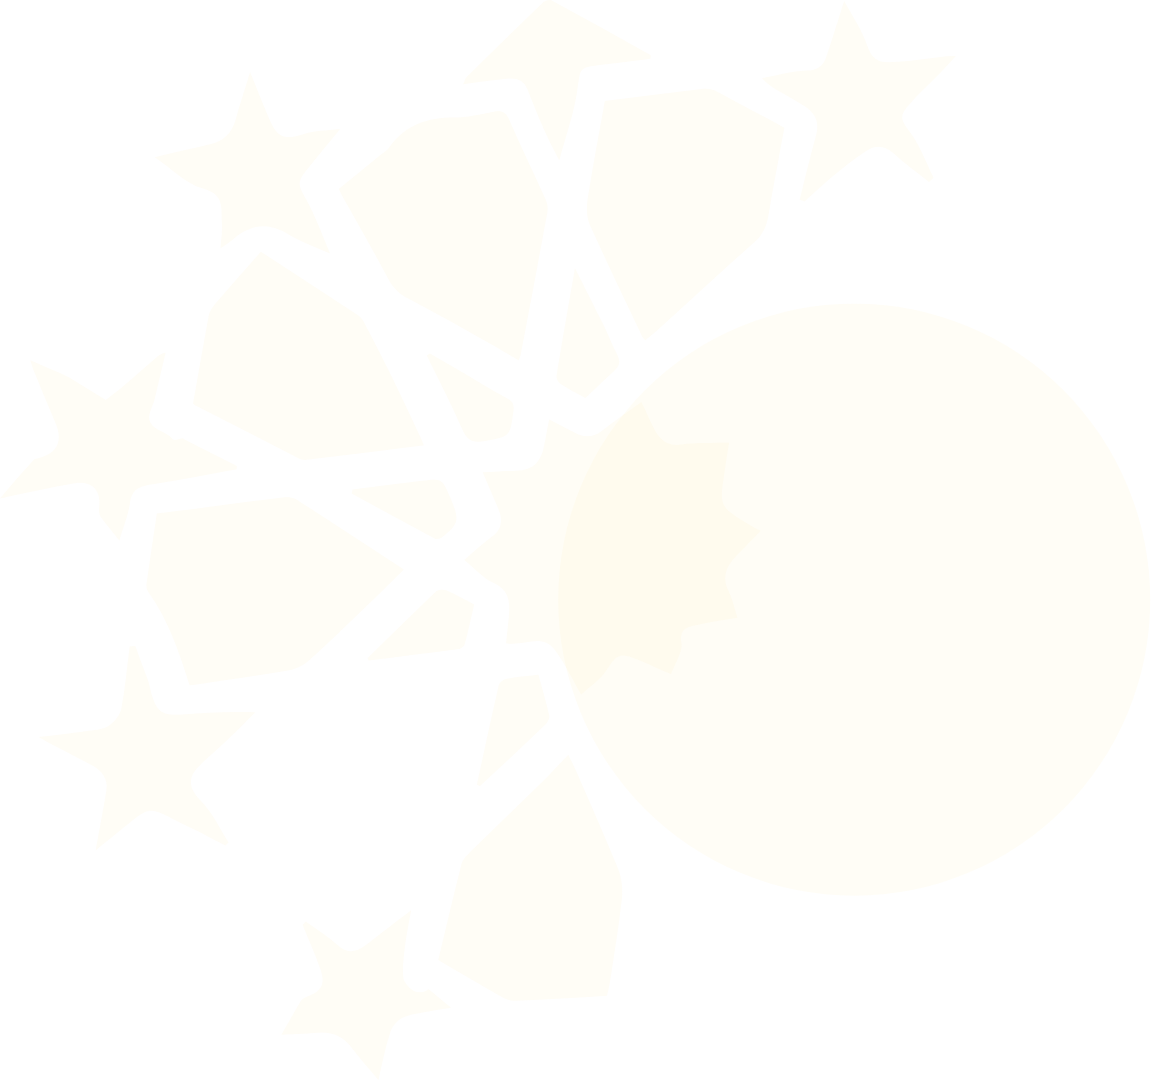
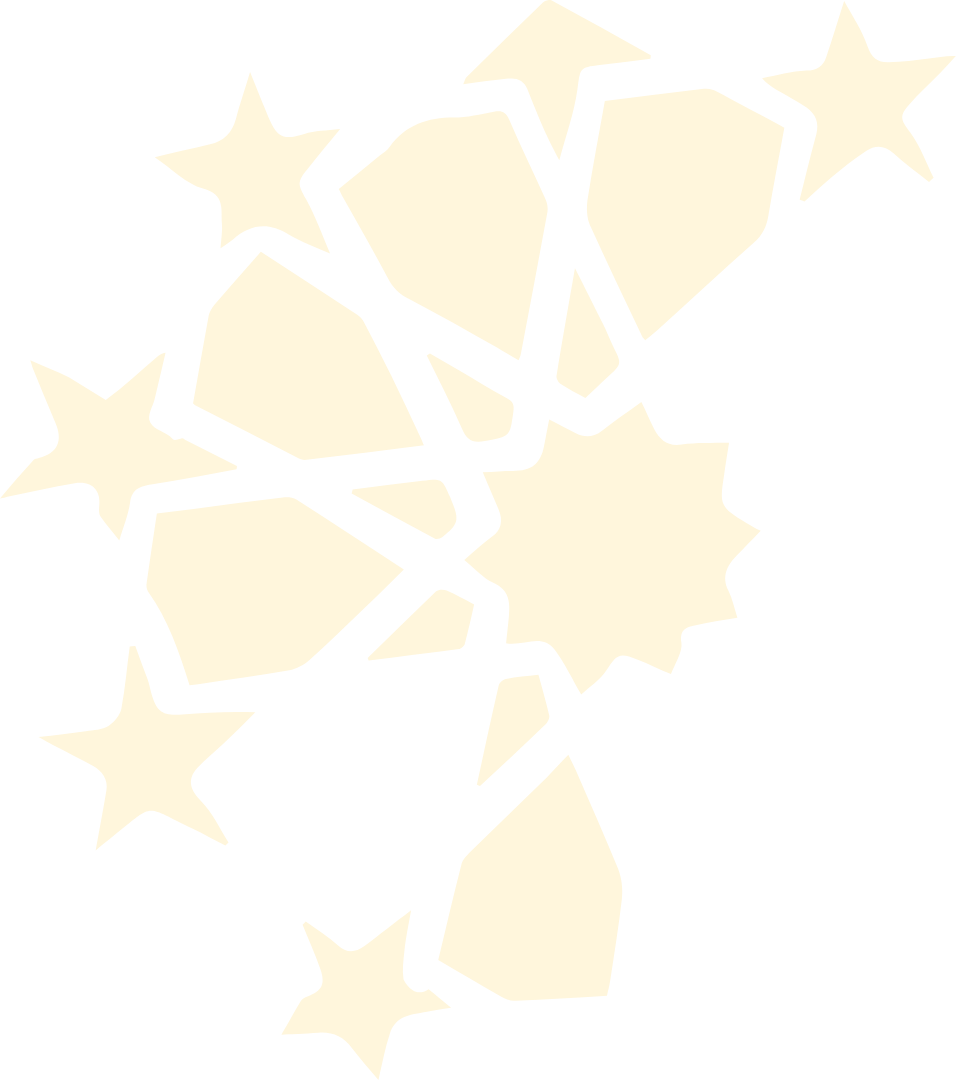
Page d'accueil public

Changed region(s): [[0.0, 0.0, 1.0, 0.7944], [0.3033, 0.3667, 0.7887, 1.0], [0.3944, 0.55, 0.4854, 0.6111]]

diff --git a/project/public/css/style.css b/project/public/css/style.css
@@ -1,10 +1,3 @@
-
-
-
-.big-icon{
-    height: 80vh !important;
-}
-
 @charset "UTF-8";
 /*!
  * Bootstrap v5.1.3 (https://getbootstrap.com/)
@@ -11287,4 +11280,13 @@ textarea.form-control-lg {
   .d-print-none {
     display: none !important;
   }
+}
+.home {
+  background-image: url(/images/bg-icon.png?5d2d244da9ed4e7fa7ad5f8497b307a5);
+  background-size: contain;
+  background-position: left center;
+  background-repeat: no-repeat;
+}
+.home .big-icon {
+  height: 80vh !important;
 }

diff --git a/project/resources/scss/app.scss b/project/resources/scss/app.scss
@@ -5,6 +5,6 @@ $font-family-monospace:  "'tajawal', Arial, sans-serif";
 $font-family-base:       $font-family-sans-serif;
 
 @import "bootstrap";
-@import url("./admin/main.scss");
-@import url("./student/main.scss");
-@import url("./public/main.scss");
+@import "admin/main.scss";
+@import "student/main.scss";
+@import "public/main.scss";

diff --git a/project/resources/scss/public/pages/home.scss b/project/resources/scss/public/pages/home.scss
@@ -1,3 +1,9 @@
-.big-icon{
-    height: 80vh !important;
+.home{
+    background-image: url("./../../../images/bg-icon.png");
+    background-size: contain;
+    background-position: left center;
+    background-repeat: no-repeat;
+    .big-icon{
+        height: 80vh !important;
+    }
 }

diff --git a/project/webpack.mix.js b/project/webpack.mix.js
@@ -14,5 +14,5 @@ const mix = require('laravel-mix');
 mix.js('resources/js/app.js', 'public/js')
 .sass('resources/scss/app.scss', 'public/css/style.css')
 .copy('resources/images','public/images')
-.sourceMaps().version();
+.sourceMaps();
 mix.disableNotifications();

diff --git a/project/resources/scss/admin/main.scss b/project/resources/scss/admin/main.scss
@@ -1,1 +1,1 @@
-@import url('./components/header.scss');
+@import './components/header.scss';

diff --git a/project/resources/scss/public/main.scss b/project/resources/scss/public/main.scss
@@ -1,1 +1,1 @@
-@import url("./pages/home.scss");
+@import "./pages/home.scss";

diff --git a/project/routes/web.php b/project/routes/web.php
@@ -14,13 +14,8 @@ use Illuminate\Support\Facades\Route;
 */
 App::setLocale("ar");
 
-
-Route::get('test', function () {
-    return view("public.home");
-});
-
 Route::prefix("/")->name("public.")->group(function () {
-    Route::get('/home', function () {return "home";})->name("home");
+    Route::get('/', [App\Http\Controllers\public\HomeController::class,'index'])->name("home");
     Route::get('/informations-bank', function () {return "informations-bank";})->name("informations-bank");
     Route::get('/about', function () {return "about";})->name("about");
     Route::get('/contact', function () {return "contact";})->name("contact");
@@ -40,24 +35,24 @@ use App\Helpers\AuthHelper;
 //     return null;
 // }
 
-Route::get('/', function () {
-    // Student::create([
-    //     // 'username'=>"abc",
-    //     'email'=>"abc@def.gh",
-    //     'password'=>Hash::make("12345678"),
-    //     'avatar'=>"emptySTring",
-    // ]);
-    // Admin::create([
-    //     'username'=>"abc",
-    //     'email'=>"abc@def.gh",
-    //     'password'=>Hash::make("12345678"),
-    //     'avatar'=>"emptySTring",
-    // ]);
-    // $passed = Auth::guard('admin')->attempt(['email' => "abc@def.gh", 'password' => '1234']);
-    // echo json_encode($passed)."<br>";
-    // echo json_encode(Auth::guard('admin')->user())."<br>".get_guard()."<br>";
-    return view('public.welcome');
-});
+// Route::get('/', function () {
+//     // Student::create([
+//     //     // 'username'=>"abc",
+//     //     'email'=>"abc@def.gh",
+//     //     'password'=>Hash::make("12345678"),
+//     //     'avatar'=>"emptySTring",
+//     // ]);
+//     // Admin::create([
+//     //     'username'=>"abc",
+//     //     'email'=>"abc@def.gh",
+//     //     'password'=>Hash::make("12345678"),
+//     //     'avatar'=>"emptySTring",
+//     // ]);
+//     // $passed = Auth::guard('admin')->attempt(['email' => "abc@def.gh", 'password' => '1234']);
+//     // echo json_encode($passed)."<br>";
+//     // echo json_encode(Auth::guard('admin')->user())."<br>".get_guard()."<br>";
+//     return view('public.welcome');
+// });
 Route::get('/something',function (){
     echo "From a protected route !!!!";
 })->middleware('authentificated');

diff --git a/project/resources/views/public/home.blade.php b/project/resources/views/public/home.blade.php
@@ -2,20 +2,23 @@
 @section('title','home page')
 
 @section('content')
-    <div class="container home">
+<main class="home">
+    <div class="container">
         <div class="row align-items-center">
-            <div class="col-md-6">
-                <h1 class="h2">المنصة الرقمية أمل تدريب</h1>
+            <div class="col-md-6 py-5 px-2 text-center text-md-end">
+                <img src="{{ asset("images/logo.svg") }}" alt="" class="im img-responsive mb-3 d-md-none">
+                <h1 class="h1"><strong>المنصة الرقمية أمل تدريب</strong></h1>
                 <h2 class="h3 text-warning">مرحبا بكم في منصة أمل تدريب</h2>
                 <p>هناك حقيقة مثبتة منذ زمن طويل وهي أن المحتوى المقروء لصفحة ما سيلهي القارئ عن التركيز على الشكل الخارجي للنص أو شكل توضع الفقرات في الصفحة التي يقرأها. ولذلك يتم استخدام طريقة لوريم إيبسوم لأنها تعطي توزيعاَ طبيعياَ -إلى حد ما- للأحرف عوضاً عن استخدام "هنا يوجد محتوى نصي، هنا يوجد محتوى نصي" فتجعلها تبدو (أي الأحرف) وكأنها نص مقروء.</p>
-                <div class="d-flex">
+                <div class="d-flex justify-content-center justify-content-md-start">
                     <a href="{{ route("student.login") }}" class="btn btn-dark me-2 my-3">تسجيل الدخول</a>
                     <a href="{{ route("public.contact") }}" class="btn btn-warning me-2 my-3">الانضمام للمنصة</a>
                 </div>
             </div>
-            <div class="col-md-6">
-                <img src="{{asset('images/big-icon.svg')}}" alt="" class="img img-responsive big-icon">
+            <div class="col-md-6 d-none d-md-block">
+                <img src="{{asset('images/big-icon.svg')}}" alt="" class="img img-responsive big-icon me-auto d-block">
             </div>
         </div>
     </div>
+</main>
 @endsection

diff --git a/project/resources/views/layouts/public.blade.php b/project/resources/views/layouts/public.blade.php
@@ -19,7 +19,7 @@
                 <span class="navbar-toggler-icon"></span>
               </button>
               <div class="collapse navbar-collapse" id="navbarSupportedContent">
-                <ul class="navbar-nav mx-auto mb-2 mb-lg-0">
+                <ul class="navbar-nav px-0 mx-auto mb-2 mb-lg-0">
                   <li class="nav-item">
                     <a class="nav-link" href="{{ route('public.informations-bank')}}">بنك المعلومات</a>
                   </li>

diff --git a/project/app/Http/Controllers/public/HomeController.php b/project/app/Http/Controllers/public/HomeController.php
@@ -1,0 +1,14 @@
+<?php
+
+namespace App\Http\Controllers\public;
+
+use App\Http\Controllers\Controller;
+use Illuminate\Http\Request;
+
+class HomeController extends Controller
+{
+    public function index()
+    {
+        return view("public.home");
+    }
+}
